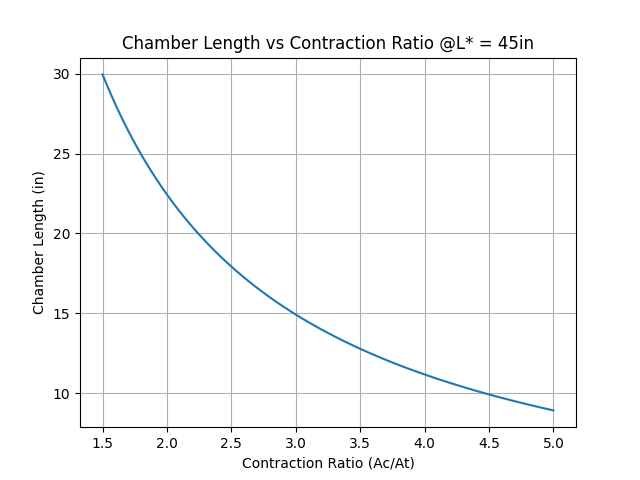
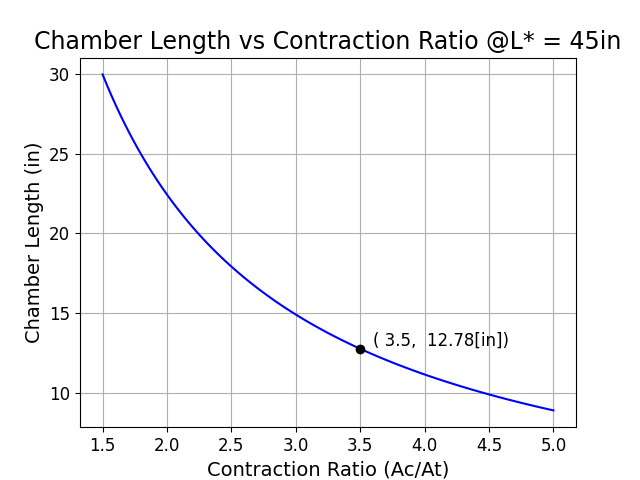
graph formatting

diff --git a/TCA/TCA Sizing Code Files/Final_Lstar_Plots.py b/TCA/TCA Sizing Code Files/Final_Lstar_Plots.py
@@ -62,6 +62,8 @@ L_star_in = tca_params['characteristic_length']
 L_star_cm = L_star_in / 12 * ft_to_m * mcm
 #Convergent Half-Angle (degrees)
 a = tca_params['tca_convergent_half_angle']
+#Contraction Ratio
+con_r = tca_params['tca_contraction_ratio']  #contraction ratio chamber area/throat area
 
 #ARRAY DECLARATION
 cs = np.linspace(cr_lo, cr_hi, 100)    #Array of contraction ratios, with 100 values between the bounds
@@ -111,7 +113,10 @@ for cr in cs:
    #calculates chambe length in inches
    Lc_ins[idx] = (L_star_cm - (1.0/3.0) * np.sqrt(At_cm / np.pi) * (1 / np.tan(np.deg2rad(a))) * (cr **(1.0/3.0) - 1)) / cr / 100 / ft_to_m * 12
    idx = idx + 1
-plt.plot(cs, Lc_ins)
+plt.plot(cs, Lc_ins, 'b')
+Lc_chosen = (L_star_cm - (1.0/3.0) * np.sqrt(At_cm / np.pi) * (1 / np.tan(np.deg2rad(a))) * (con_r **(1.0/3.0) - 1)) / con_r / 100 / ft_to_m * 12
+plt.plot(con_r, Lc_chosen, 'ko')
+plt.text(3.6, 13, f'({con_r : .1f}, {Lc_chosen : .2f}[in])', fontsize = 12)
 plt.xlabel('Contraction Ratio (Ac/At)', fontsize = 14)
 plt.ylabel('Chamber Length (in)', fontsize = 14)
 plt.title(f'Chamber Length vs Contraction Ratio @L* = {L_star_in}in', fontsize = 17)

diff --git a/TCA/TCA Sizing Code Files/Final_Graphing_Script.py b/TCA/TCA Sizing Code Files/Final_Graphing_Script.py
@@ -76,8 +76,8 @@ for mr in mr_range:
 plt.plot(mr_range, Isp_vals, 'b')
 Eps_chosen = C.get_eps_at_PcOvPe(Pc = pc, MR = of, PcOvPe= (pc / pe))
 Isp_chosen = C.get_Isp(Pc = pc, MR = of, eps = Eps_chosen)
-plt.plot(of, Isp_chosen, 'k')
-plt.text(2.25, 300, f'({of : .1f}, {Isp_chosen : .1f}[s])', fontsize = 12)
+plt.plot(of, Isp_chosen, 'ko')
+plt.text(2.15, 300, f'({of : .1f}, {Isp_chosen : .1f}[s])', fontsize = 12)
 plt.xlabel("O/F ratio by mass", fontsize = 14)
 plt.ylabel("Specific Impulse [s]", fontsize = 14)
 plt.title(f"Spec. Impulse vs O/F ratio @{pc} psia", fontsize = 17)
@@ -113,8 +113,8 @@ for mr in mr_range:
     count = count + 1
 plt.plot(mr_range, Comb_Ts, 'r')
 T_chosen = C.get_Tcomb(Pc = pc, MR = of) * rankineToKelvin
-plt.plot(of, T_chosen, 'k')
-plt.text(2.15, 3250, f'({of : .1f}, {T_chosen : .1f} [$^\circ[K]$])', fontsize = 12)
+plt.plot(of, T_chosen, 'ko')
+plt.text(2.15, 3250, f'({of : .1f}, {T_chosen : .1f}[$^\circ K$])', fontsize = 12)
 plt.xlabel("O/F ratio by mass", fontsize = 14)
 plt.ylabel("Combustion Temperature [K]", fontsize = 14)
 plt.title(f"Combustion Temperature vs O/F ratio @{pc} psia", fontsize = 17)
